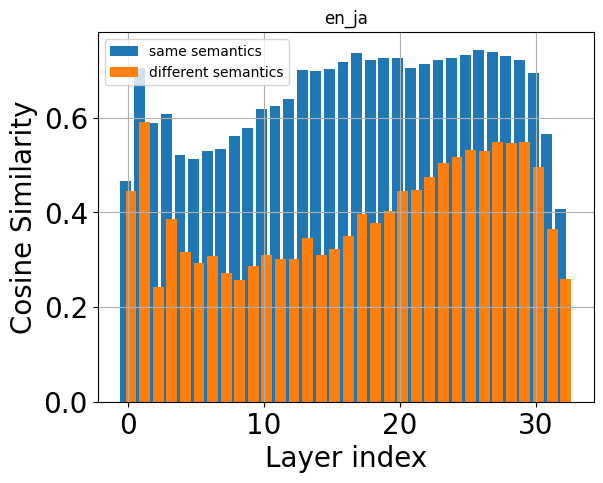
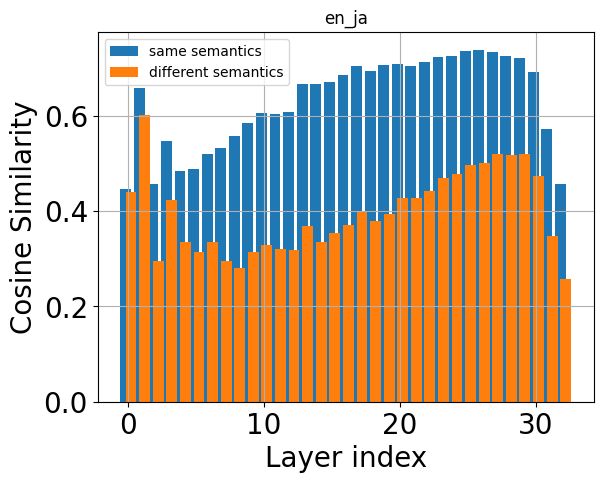
add/images

diff --git a/activated_neuron/new_neurons/intervention/hidden_state_sim/AUC/line_plot_experts.py b/activated_neuron/new_neurons/intervention/hidden_state_sim/AUC/line_plot_experts.py
@@ -1,0 +1,97 @@
+"""
+visualize experts for same semantics as a sentence.
+"""
+import os
+import sys
+sys.path.append("/home/s2410121/proj_LA/activated_neuron/new_neurons/intervention/hidden_state_sim/AUC")
+import dill as pickle
+from collections import Counter, defaultdict
+
+import numpy as np
+import matplotlib.pyplot as plt
+import seaborn as sns
+import pandas as pd
+import torch
+from transformers import AutoTokenizer, AutoModelForCausalLM
+
+from expertise_funcs import (
+    save_as_pickle,
+    unfreeze_pickle,
+)
+
+
+""" parameters setting """
+activation_type = "abs"
+# activation_type = "product"
+norm_type = "no"
+# norm_type = "min_max"
+# norm_type = "sigmoid"
+# L2 = "ja"
+L2_list = ["ja", "nl", "ko", "it"]
+
+# データを格納するリスト
+data = []
+
+for L2 in L2_list:
+    # LLaMA-3 unfreezing
+    sorted_neurons_path = f"/home/s2410121/proj_LA/activated_neuron/new_neurons/pickles/AUC/act_{activation_type}/ap_scores/{norm_type}_norm/sorted_neurons_{L2}.pkl"
+    llama3_path = f"/home/s2410121/proj_LA/activated_neuron/new_neurons/pickles/AUC/act_{activation_type}/ap_scores/{norm_type}_norm/ap_scores_{L2}.pkl"
+    sorted_neurons_llama3 = unfreeze_pickle(sorted_neurons_path)
+    ap_scores_llama3 = unfreeze_pickle(llama3_path)
+
+    # GPT-2 unfreezing
+    sorted_neurons_path = f"/home/s2410121/proj_LA/activated_neuron/new_neurons/gpt2/pickles/AUC/act_{activation_type}/ap_scores/{norm_type}_norm/sorted_neurons_{L2}.pkl"
+    gpt2_path = f"/home/s2410121/proj_LA/activated_neuron/new_neurons/gpt2/pickles/AUC/act_{activation_type}/ap_scores/{norm_type}_norm/ap_scores_{L2}.pkl"
+    sorted_neurons_gpt2 = unfreeze_pickle(sorted_neurons_path)
+    ap_scores_gpt2 = unfreeze_pickle(gpt2_path)
+
+    # makind dataframe for visualization
+    for i in range(len(sorted_neurons_llama3[:30000])):
+        data.append({"Model": "LLaMA-3", "Language": L2, "Neuron": i, "AP_Score": ap_scores_llama3[sorted_neurons_llama3[i]]})
+    for i in range(len(sorted_neurons_gpt2[:30000])):
+        data.append({"Model": "GPT-2", "Language": L2, "Neuron": i, "AP_Score": ap_scores_gpt2[sorted_neurons_gpt2[i]]})
+
+# convert pandas DataFrame
+df = pd.DataFrame(data)
+
+# AP_Score を数値に変換
+df['AP_Score'] = pd.to_numeric(df['AP_Score'], errors='coerce')
+
+# Neuron カラムを数値に変換
+df['Neuron'] = pd.to_numeric(df['Neuron'], errors='coerce')
+
+# Language と Model を文字列型に変換
+df['Language'] = df['Language'].astype(str)
+df['Model'] = df['Model'].astype(str)
+
+# プロット作成
+plt.figure(figsize=(16, 10))  # グラフサイズを大きめに調整
+sns.lineplot(
+    data=df,
+    x="Neuron",
+    y="AP_Score",
+    hue=f"Language",
+    style="Model",
+    markers=False,
+    # dashes=False,
+    dashes={"GPT-2": [2, 2], "LLaMA-3": [1, 0]},
+    palette=sns.color_palette("tab10"),  # カラーパレット設定
+    linewidth=5,
+    alpha=1,
+)
+
+# グラフの装飾
+plt.xlabel("Neuron Index", fontsize=20)
+plt.ylabel("AP Score", fontsize=20)
+plt.title("AP Scores for LLaMA-3 and GPT-2 Models Across L2", fontsize=24)
+plt.tick_params(axis='x', labelsize=18)
+plt.tick_params(axis='y', labelsize=18)
+plt.legend(title=f"Language & Model", fontsize=15, title_fontsize=18)
+plt.grid(True, linestyle="--", alpha=0.6)
+
+# 保存と表示
+plt.tight_layout()
+plt.savefig(
+    f"/home/s2410121/proj_LA/activated_neuron/new_neurons/images/same_semantic_experts/{activation_type}/ap_scores_comparison.png",
+    bbox_inches="tight"
+)

diff --git a/activated_neuron/new_neurons/intervention/hidden_state_sim/AUC/intervention_funcs.py b/activated_neuron/new_neurons/intervention/hidden_state_sim/AUC/intervention_funcs.py
@@ -84,7 +84,7 @@ def calc_cosine_sim(last_token_hidden_states_L1: list, last_token_hidden_states_
 # visualization
 def plot_hist(dict1: defaultdict(float), dict2: defaultdict(float), L2: str, AUC_or_AUC_baseline:str, activation_type: str, norm_type: str, intervention_num: str) -> None:
     # convert keys and values into list
-    keys = list(dict1.keys())
+    keys = np.array(list(dict1.keys()))
     values1 = list(dict1.values())
     values2 = list(dict2.values())
 
@@ -92,16 +92,39 @@ def plot_hist(dict1: defaultdict(float), dict2: defaultdict(float), L2: str, AUC
     plt.bar(keys, values1, alpha=1, label='same semantics')
     plt.bar(keys, values2, alpha=1, label='different semantics')
 
-    plt.xlabel('Layer index')
-    plt.ylabel('Cosine Similarity')
+    plt.xlabel('Layer index', fontsize=20)
+    plt.ylabel('Cosine Similarity', fontsize=20)
     plt.title(f'en_{L2}')
+    plt.tick_params(axis='x', labelsize=20)  # x軸の目盛りフォントサイズ
+    plt.tick_params(axis='y', labelsize=20)
     plt.legend()
     plt.grid(True)
     plt.savefig(
-        f"/home/s2410121/proj_LA/activated_neuron/new_neurons/images/hidden_state_sim/intervention/llama3/{AUC_or_AUC_baseline}/{activation_type}/{norm_type}/{intervention_num}/en_{L2}.png",
+        f"/home/s2410121/proj_LA/activated_neuron/new_neurons/images/hidden_state_sim/intervention/llama3/{AUC_or_AUC_baseline}/{activation_type}/{norm_type}/{intervention_num}/en_{L2}_rev.png",
         bbox_inches="tight"
     )
     plt.close()
+
+# def plot_hist(dict1: defaultdict(float), dict2: defaultdict(float), L2: str, AUC_or_AUC_baseline:str, activation_type: str, norm_type: str, intervention_num: str) -> None:
+#     # convert keys and values into list
+#     keys = list(dict1.keys())
+#     values1 = list(dict1.values())
+#     values2 = list(dict2.values())
+
+#     # plot hist
+#     plt.bar(keys, values1, alpha=1, label='same semantics')
+#     plt.bar(keys, values2, alpha=1, label='different semantics')
+
+#     plt.xlabel('Layer index')
+#     plt.ylabel('Cosine Similarity')
+#     plt.title(f'en_{L2}')
+#     plt.legend()
+#     plt.grid(True)
+#     plt.savefig(
+#         f"/home/s2410121/proj_LA/activated_neuron/new_neurons/images/hidden_state_sim/intervention/llama3/{AUC_or_AUC_baseline}/{activation_type}/{norm_type}/{intervention_num}/en_{L2}.png",
+#         bbox_inches="tight"
+#     )
+#     plt.close()
 
 def save_as_pickle(file_path, target_dict) -> None:
     """

diff --git a/measure_similarities/llama3/hidden_states/hidden_state_sim.py b/measure_similarities/llama3/hidden_states/hidden_state_sim.py
@@ -135,9 +135,9 @@ if __name__ == "__main__":
         # "base": "meta-llama/Meta-Llama-3-8B",
         "ja": "tokyotech-llm/Llama-3-Swallow-8B-v0.1", # ja
         # "de": "DiscoResearch/Llama3-German-8B", # ger
-        # "nl": "ReBatch/Llama-3-8B-dutch", # du
-        # "it": "DeepMount00/Llama-3-8b-Ita", # ita
-        # "ko": "beomi/Llama-3-KoEn-8B", # ko
+        "nl": "ReBatch/Llama-3-8B-dutch", # du
+        "it": "DeepMount00/Llama-3-8b-Ita", # ita
+        "ko": "beomi/Llama-3-KoEn-8B", # ko
     }
     device = "cuda" if torch.cuda.is_available() else "cpu"
 
@@ -150,7 +150,7 @@ if __name__ == "__main__":
         """ tatoeba translation corpus """
         dataset = load_dataset("tatoeba", lang1=L1, lang2=L2, split="train")
         # select first 2000 sentences
-        num_sentences = 10
+        num_sentences = 2000
         dataset = dataset.select(range(num_sentences))
         tatoeba_data = []
         for item in dataset:

diff --git a/activated_neuron/new_neurons/intervention/hidden_state_sim/AUC/take_sim_with_intervention.py b/activated_neuron/new_neurons/intervention/hidden_state_sim/AUC/take_sim_with_intervention.py
@@ -38,10 +38,10 @@ if __name__ == "__main__":
     # active_THRESHOLD = 0.01
     activation_type = "abs"
     # activation_type = "product"
-    # norm_type = "no"
-    norm_type = "sigmoid"
-    n_list = [100, 1000, 3000, 4000, 5000, 7000, 10000, 15000, 20000, 30000] # patterns of intervention_num
-    # n_list = [20000]
+    norm_type = "no"
+    # norm_type = "sigmoid"
+    # n_list = [100, 1000, 3000, 4000, 5000, 7000, 10000, 15000, 20000, 30000] # patterns of intervention_num
+    n_list = [15000]
 
     for L2, model_name in model_names.items():
 
